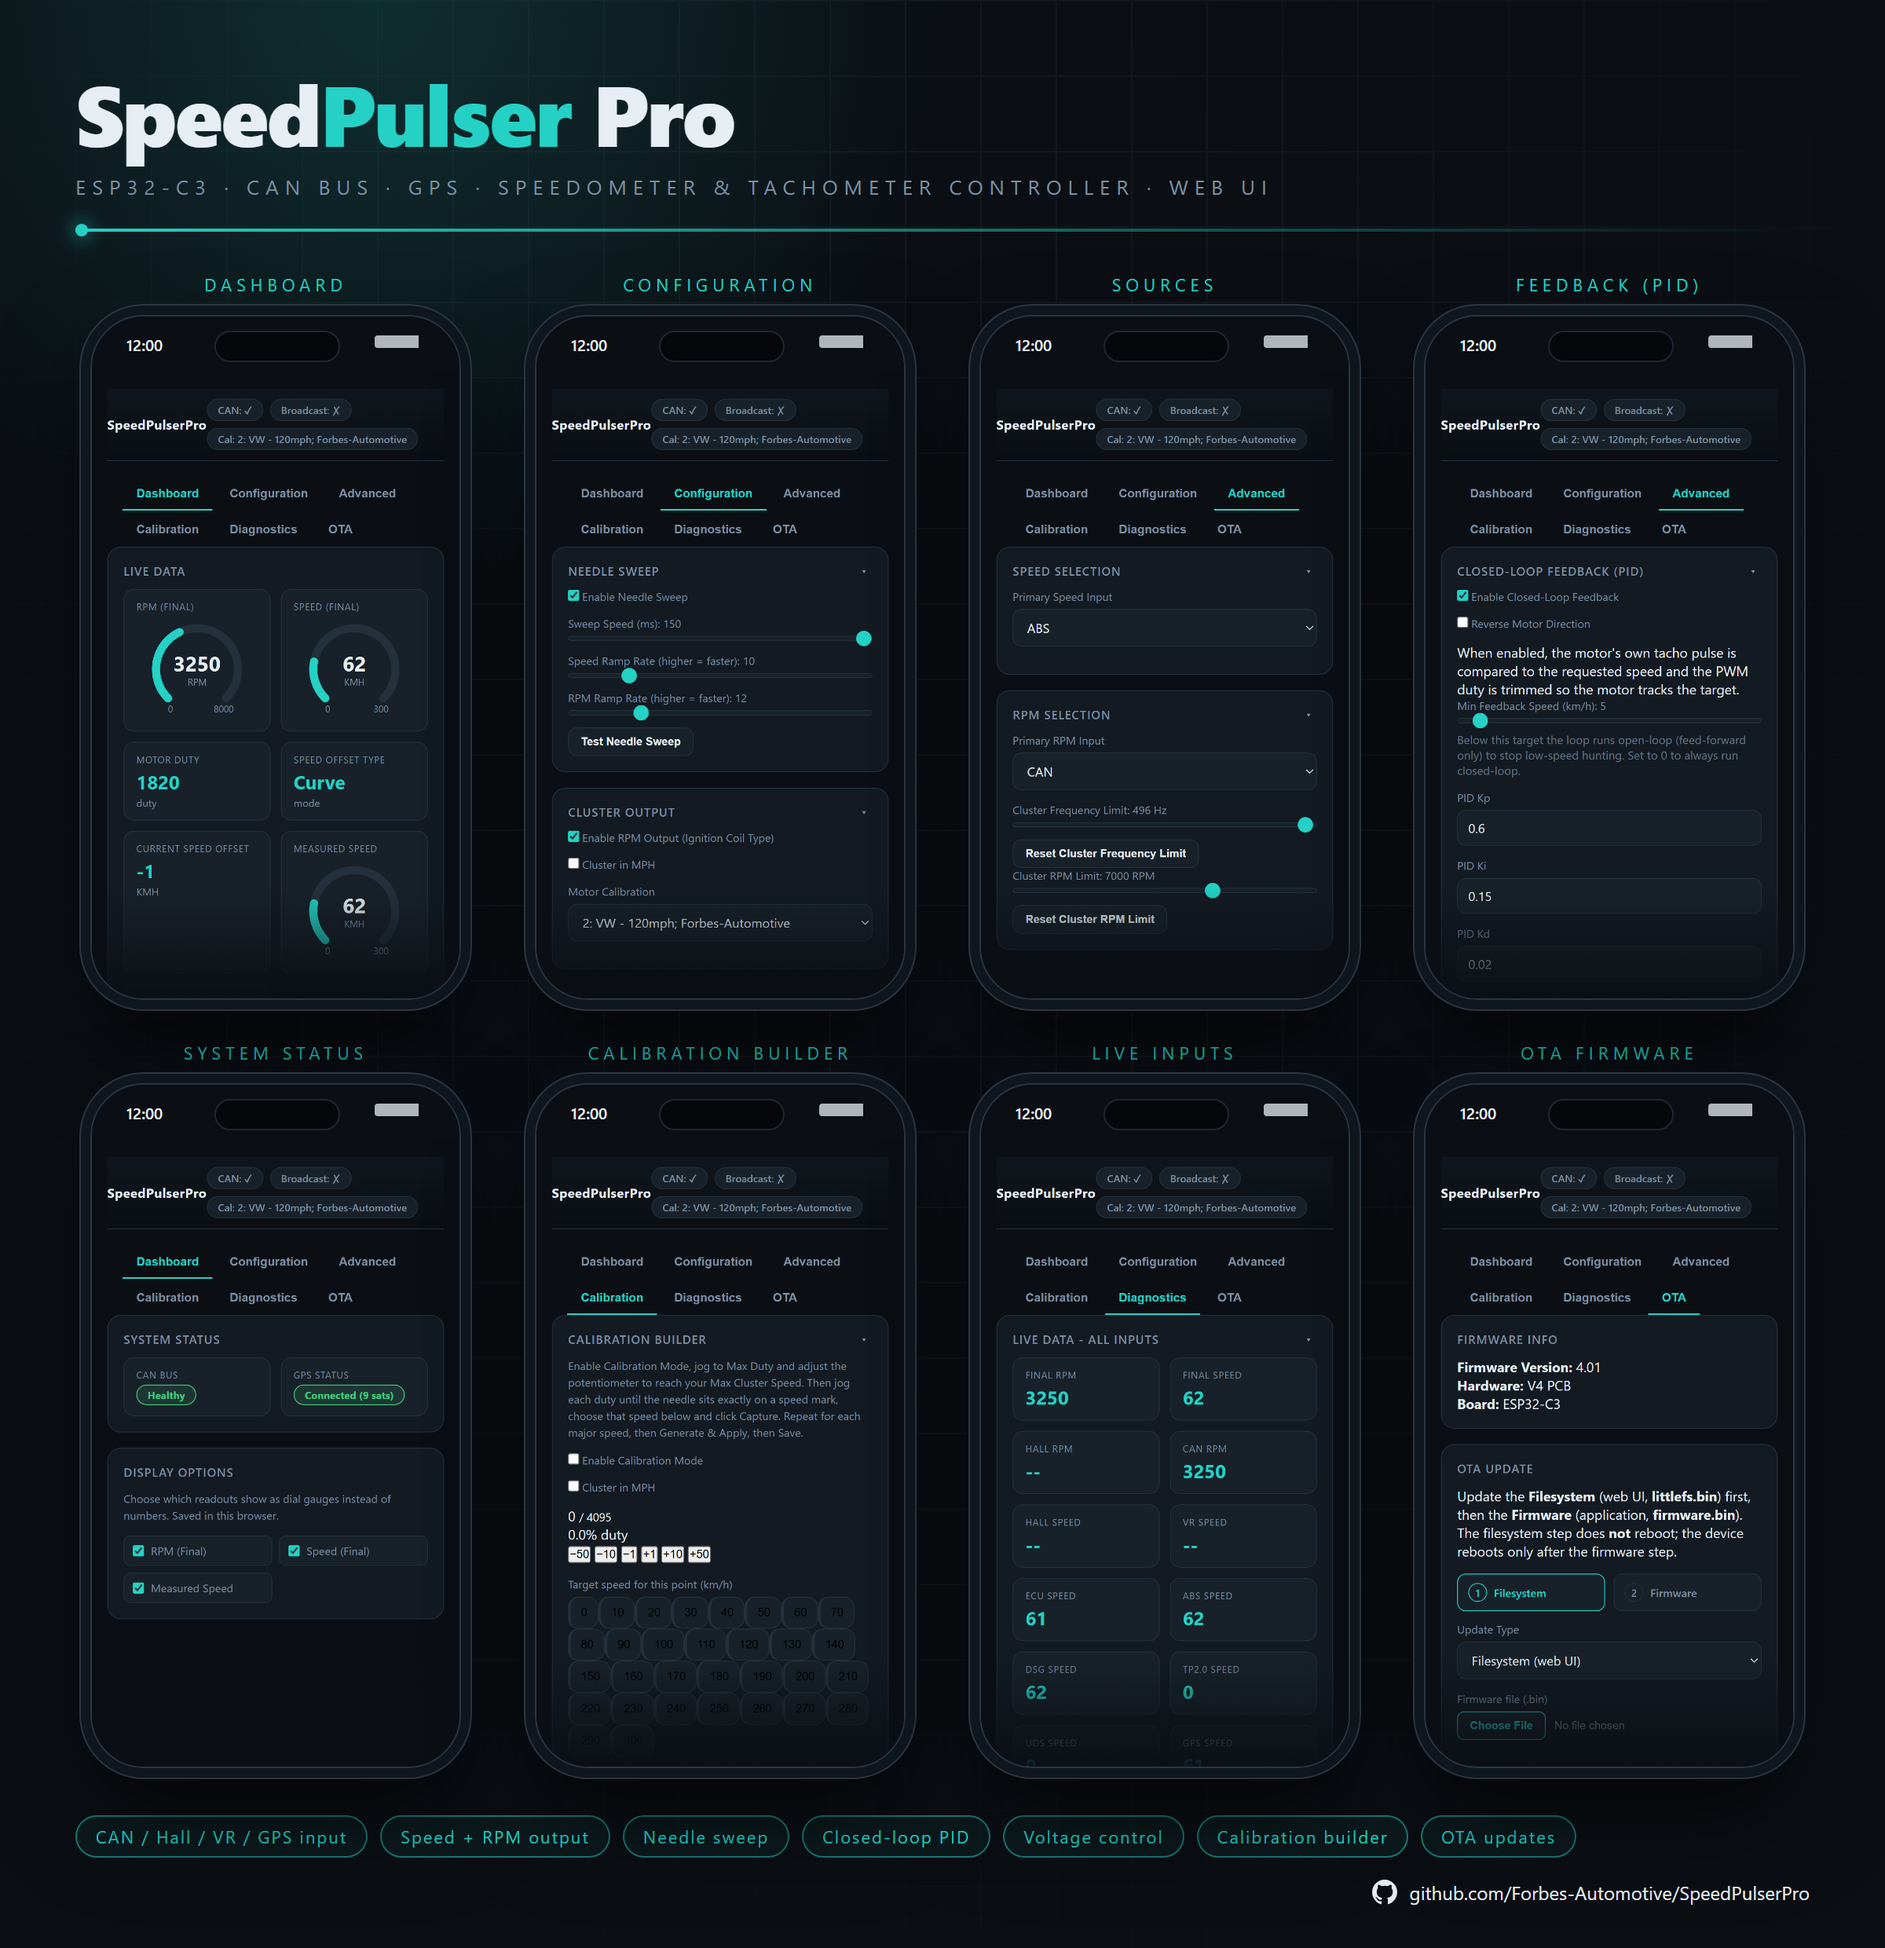
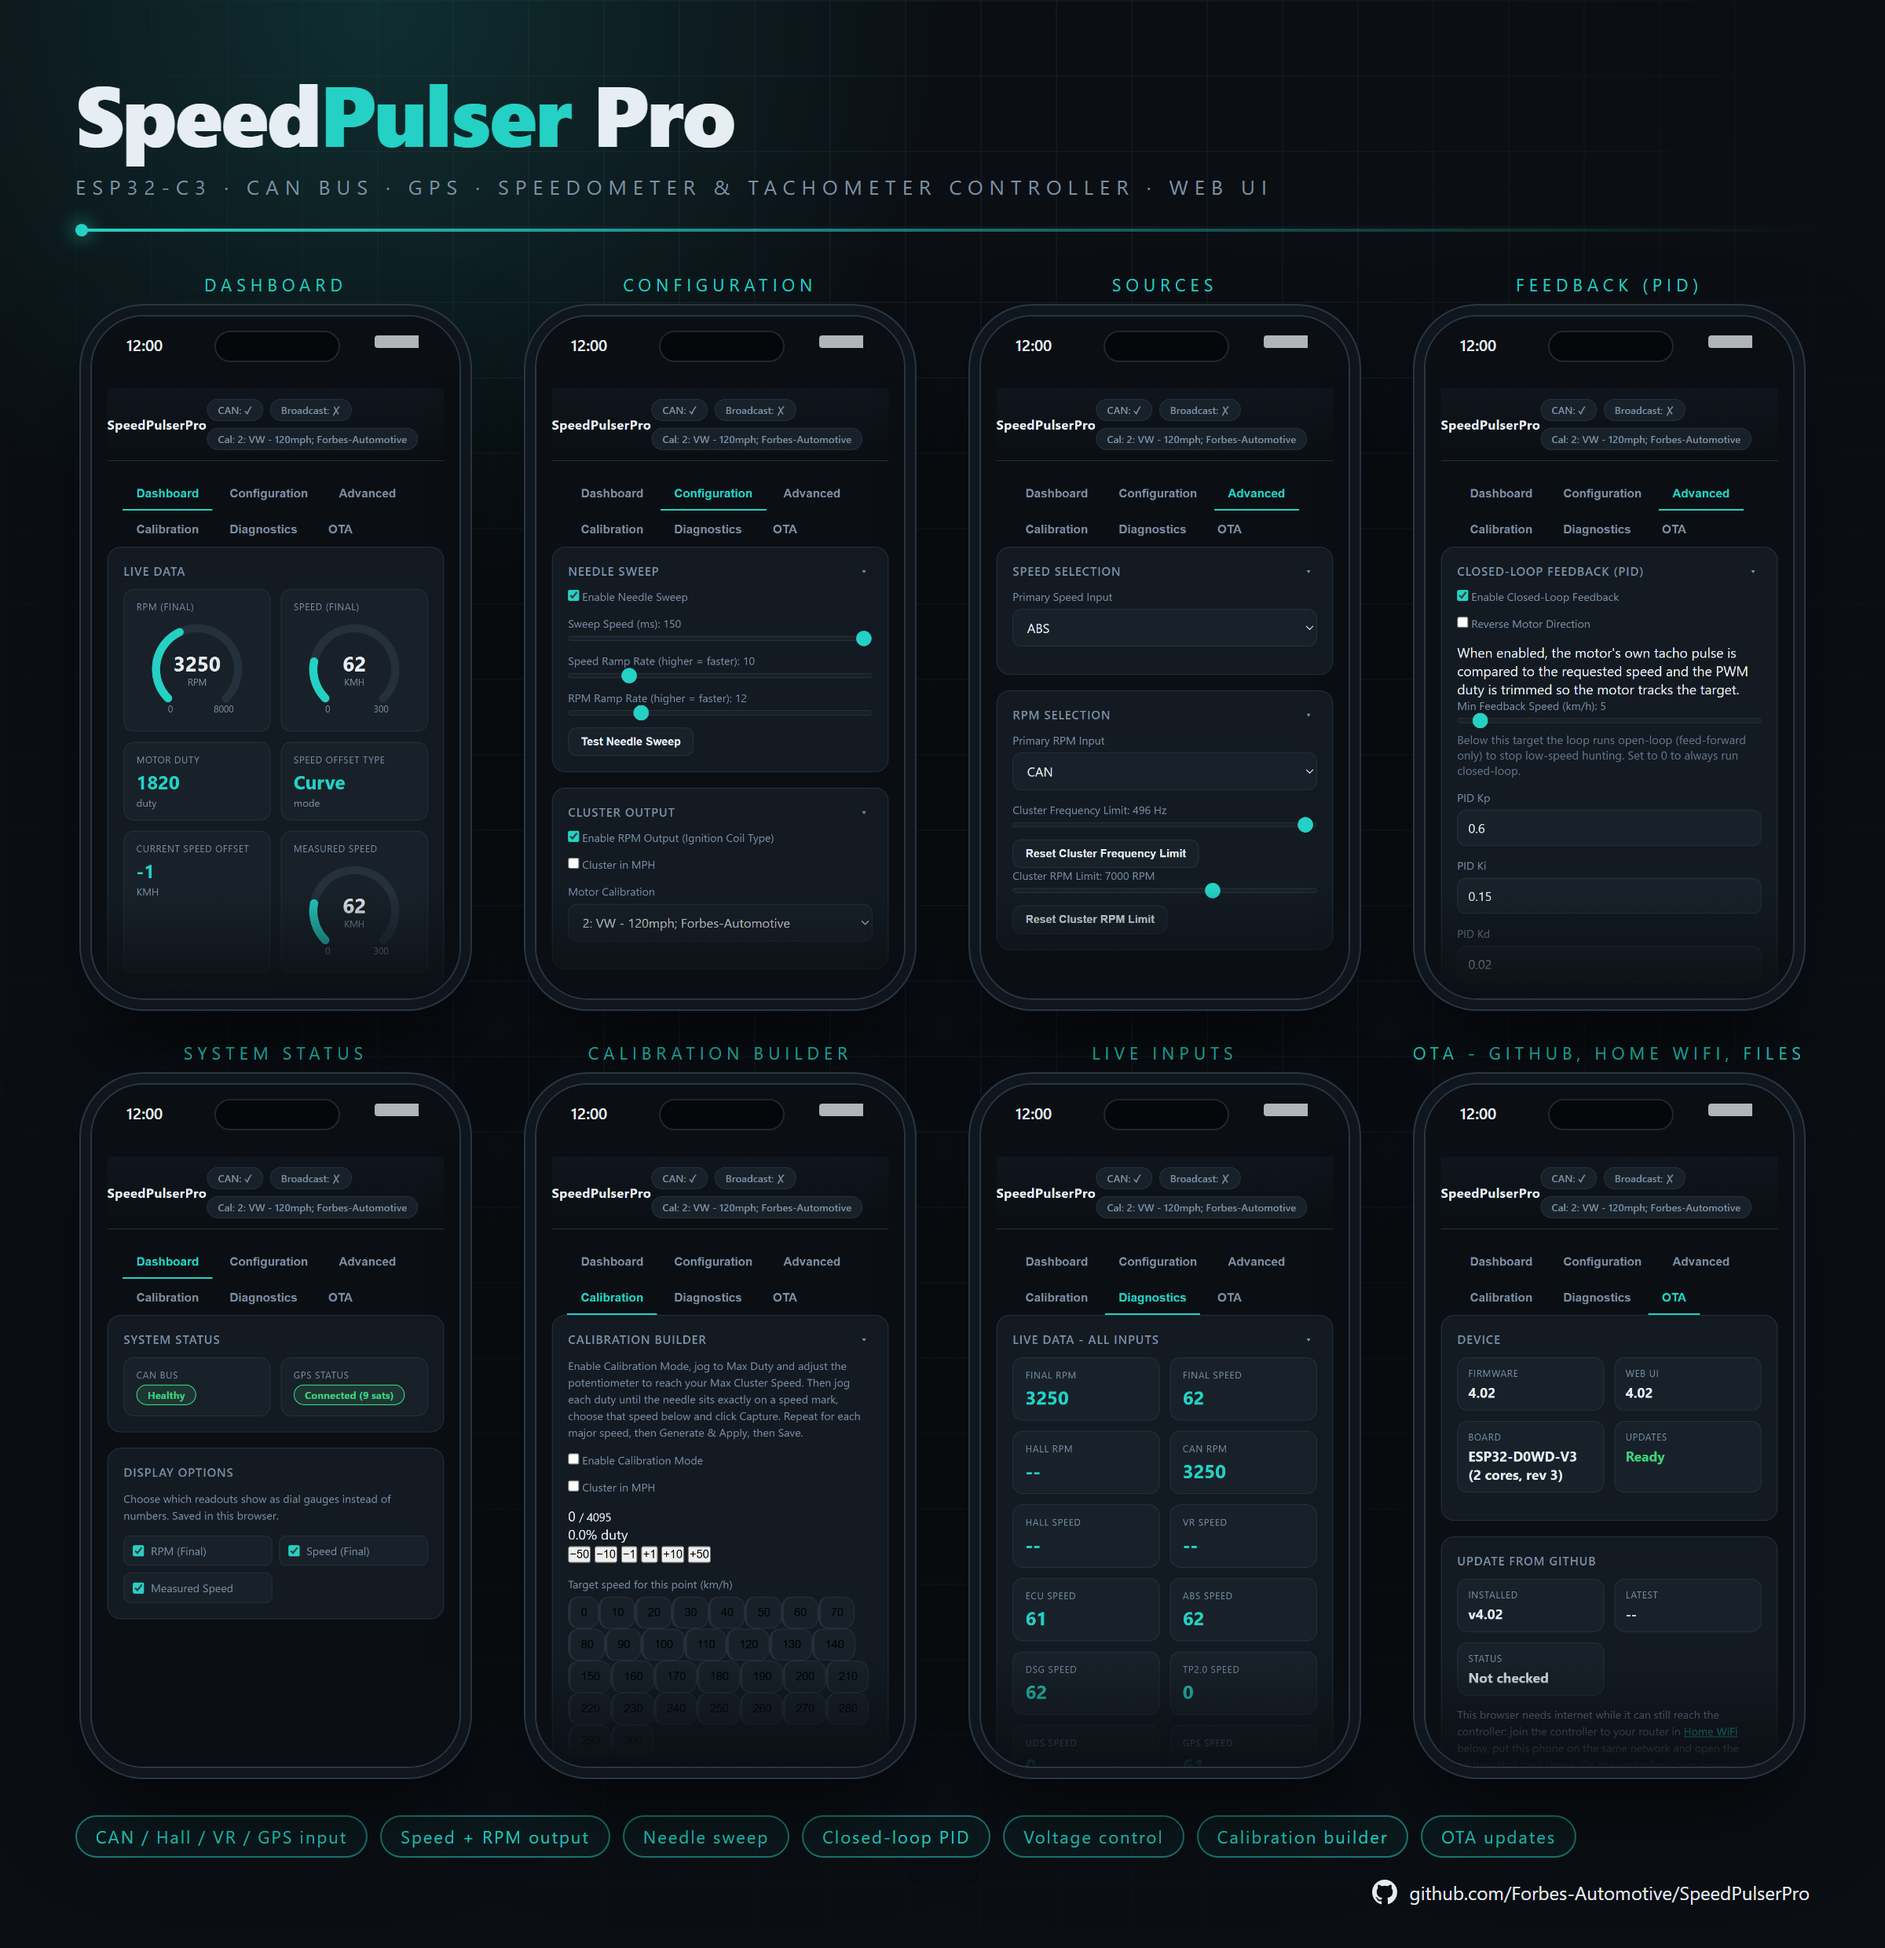
Add files via upload

Changed region(s): [[0.7812, 0.6831, 0.9375, 0.9004], [0.8438, 0.5278, 0.875, 0.5589]]

diff --git a/README.md b/README.md
@@ -27,7 +27,7 @@ It is based on an **ESP32 DevKit V1 (WROOM-32)** and uses a **TY3816B** BLDC mot
 | WiFi UI | Web app type interface |
 | Needle sweep | Full-scale exercise of both needles on power-up (speed + RPM), live-adjustable sweep speed |
 | Speed offset | Global fixed offset **or** 5-point speed-dependent curve |
-| OTA updates | Firmware **and** filesystem upload from the browser |
+| OTA updates | Update from GitHub or by file upload on the OTA tab; Home Wi‑Fi bridge mode; recovery page if the web UI is ever lost |
 | CAN analyzer | Forward live frames to SavvyCAN via WiFi (GVRET) or Serial |
 | Power management | Auto WiFi-off + CPU scaling after 1 min idle |
 | Remembers settings | All settings stored to ESP32 Preferences (EEPROM) |
@@ -183,7 +183,7 @@ Take time here — good fitment minimises noise and extends coupler life.
 
 Connect to the **`SpeedPulserPro`** WiFi access point (open network) and navigate to **`192.168.1.1`** or **`speedpulserpro.local`** in a browser.
 
-The interface is a single-page app served from the ESP32's LittleFS flash partition, built on Forbes Automotive's shared dark theme (the same look and status-colour conventions used across OpenHaldex, Can2Cluster, SpeedPulser, can2rpm, the MQB Steering Wheel Controller and AirLift Controller). Settings are applied in real time and saved to EEPROM automatically every 5 seconds. Current firmware version: **4.01.0**.
+The interface is a single-page app served from the ESP32's LittleFS flash partition, built on Forbes Automotive's shared dark theme (the same look and status-colour conventions used across OpenHaldex, Can2Cluster, SpeedPulser, can2rpm, the MQB Steering Wheel Controller and AirLift Controller). Settings are applied in real time and saved to EEPROM automatically every 5 seconds. Current firmware version: **5.03**.
 
 **Status colours**, used throughout the Dashboard and Diagnostics tabs:
 
@@ -264,7 +264,7 @@ Source selection, tuning and diagnostics:
 | GPS Update Rate | Select **1 / 5 / 10 / 16 Hz** and view the live updates-per-second figure |
 | Signal Filters | Hall speed, VR speed and RPM running-median sample counts (1–10) |
 | CAN Analyser | Forward all received CAN frames to **SavvyCAN** via WiFi (GVRET on `192.168.4.1:23`) or Serial (GVRET) |
-| Speed Selection | Primary speed source: Hall / ECU / ABS / DSG / TP2.0 / UDS / GPS / Custom CAN |
+| Speed Selection | Primary speed source: Hall / VR (S3) / ECU / ABS / DSG / TP2.0 / UDS / GPS / Custom CAN. Only one is used at a time |
 | Custom CAN Input | When *Custom CAN* is selected, define ID, byte indices, endianness, scale & offset |
 | DSG Speed Calculation | When *DSG* is selected, the gear ratios, final drives and tyre circumference used to derive speed from RPM and gear |
 | RPM Selection | Primary RPM source (Hall or CAN), cluster frequency limit and RPM ceiling |
@@ -431,7 +431,8 @@ Source (Hall / ECU / ABS / DSG / TP2.0 / UDS / GPS / Custom CAN)
     │
     ▼  ISR (windowed capture) / TWAI RX / GPS parser
     Hall / VR / RPM inputs accumulate each edge interval + count, rejecting
-    pulses < 3 ms (> 333 Hz) as electrical noise; other sources arrive in km/h
+    edges closer than half a period at that input's full scale as electrical
+    noise; other sources arrive in km/h
     │
     ▼  speedControlTask  (once per loop)
     For Hall: frequency = intervals ÷ summed interval time (true average over the
@@ -441,6 +442,10 @@ Source (Hall / ECU / ABS / DSG / TP2.0 / UDS / GPS / Custom CAN)
     ▼  RunningMedian filter  (averageFilterHall samples, default 6)
     Smoothed median speed value
     │
+    ▼  Max Speed check
+    Above Max Speed for a moment: hold the last good speed (spike);
+    above it for 0.5 s: park at Max Speed
+    │
     ▼  applyConfiguredSpeedOffset()
     Speed ± global offset  OR  speed ± curve offset for that band
     │
@@ -449,6 +454,7 @@ Source (Hall / ECU / ABS / DSG / TP2.0 / UDS / GPS / Custom CAN)
     ▼  findClosestMatch()
     Scans motorPerformance[] for the closest matching speed value
     Returns the array index = 10-bit duty cycle
+    At or below the array's lowest speed the motor stays off
     │
     ▼  setMotorDuty()  — native LEDC IDF driver, 10 kHz
     Motor PWM output on GPIO 21
@@ -456,7 +462,10 @@ Source (Hall / ECU / ABS / DSG / TP2.0 / UDS / GPS / Custom CAN)
 
 > **Default hall-sensor scaling:** 1 Hz = 1 km/h. This matches 02J / 02M gearbox sensors used in most VW/Audi applications. Adjust `maxFreqHall` and `maxSpeed` together if your sensor has a different ratio (e.g. set both to 160 for a sensor that outputs 160 Hz at 160 km/h).
 
-> **Windowed frequency capture:** The hall, VR and RPM inputs no longer derive their reading from a single edge-to-edge period — which could turn tone-wheel / tooth-spacing jitter straight into a jumpy needle. Instead each ISR accumulates the edge intervals and the task averages them once per window, and pulses closer than ~3 ms (> 333 Hz) are rejected so ignition-coil EMI can't be mistaken for a valid signal.
+> **Windowed frequency capture:** The hall, VR and RPM inputs no longer derive their reading from a single edge-to-edge period — which could turn tone-wheel / tooth-spacing jitter straight into a jumpy needle. Instead each ISR accumulates the edge intervals and the task averages them once per window, and edges closer than half a period at that input's full scale (Max Hall Frequency / Max VR Frequency / Cluster Frequency Limit, never above 1 kHz) are rejected so ignition-coil EMI can't be mistaken for a valid signal.
+
+> [!NOTE]
+> **Lowest speed shown:** each legacy calibration array has a lowest speed the motor can hold (the default array starts at 24 km/h). At or below it the motor is switched off and the needle rests on zero, so low test speeds on the bench may not move the needle. On the S3 board, Voltage Control with a drive calibration that includes a low mark reaches much slower speeds.
 
 ### Reading a Legacy Calibration Array
 
@@ -525,17 +534,17 @@ The two modes are mutually exclusive and can be toggled from the CAN Analyzer ca
 
 ---
 
-### OTA Tab
+### Over-the-Air Updates
 
-<p align="center"><img src="Images/ui-ota.png" alt="OTA tab — firmware info and two-step update" width="300"></p>
+Everything happens on the **OTA** tab; USB is only needed for the very first install, or if the web interface is ever lost.
 
-Powered by the shared `ota_manager` module. Firmware and the web UI live on separate flash partitions, so an update is a **two-step process**:
+- **Update from GitHub** — press **Check for updates**. The page reads the release list from [`adamforbes92/speedPulserPro`](https://github.com/adamforbes92/speedPulserPro) (`Releases/releases.json` plus the `V…` folders), shows *Installed* vs. *Latest* (older and beta releases sit behind a tick-box, for rolling back), then installs the selected version in six tracked steps: download and flash the web UI, verify it, download and flash the firmware, reboot. The browser needs internet *while it can still reach the controller* — join the controller to your router in the **Home WiFi (Bridge Mode)** card, put the phone on the same network and open the address the card shows (`http://speedpulserpro.local/` works there too). On the controller's own access point alone most phones drop mobile data.
+- **Home WiFi (Bridge Mode)** — the controller joins a home or garage network as a station alongside its own access point. Scan or type the network name, save, and once it shows *Connected* the controller is reachable from that network as well. It tries hard for 20 s after boot, then once every 5 minutes, so a saved network can't disturb the access point when the car is parked away from home.
+- **Update from Files** — no internet needed: download `littlefs.bin` and `firmware.bin` from the newest `Releases/V…/` folder and upload them here, **Filesystem** (web UI) first, then **Firmware**. The device reboots after the firmware.
 
-1. **Filesystem** — pick **Filesystem (web UI)** from the dropdown and upload `littlefs.bin` (`POST /api/ota/fs`, written to the SPIFFS partition). This updates `index.html` / `app.js` / `style.css`; the device does **not** reboot, so you can go straight on to step 2.
-2. **Firmware** — pick **Firmware (application)** and upload `firmware.bin` (`POST /api/ota`, written to the OTA app partition). The device reboots automatically once this completes.
+Every upload is size-checked, and a filesystem image is verified by mounting it before the device reports success — a failed filesystem upload is wiped rather than left half-written. If the web interface is ever missing (a filesystem update that stopped part-way), the controller serves a **recovery page** at its address with the same two uploads and partition diagnostics, so it is never a USB job. Web assets are served `no-cache`, so a new UI is never hidden behind a stale copy in the phone's browser. `GET /api/ota/info` reports the firmware and web UI versions shown at the top of the tab; `GET /api/ota/check` gates updates on the device being in a safe state.
 
-- **Firmware Info** — reports the running firmware version, hardware family and board name (`GET /api/ota/info`).
-- **OTA Update** — pick **Firmware** or **Filesystem** from the dropdown, then drag-and-drop or choose the matching `.bin`. A progress bar tracks each upload.
+<p align="center"><img src="Images/ui-ota.png" alt="OTA tab — Update from GitHub, Home WiFi bridge mode and Update from Files" width="300"></p>
 
 ---
 
@@ -635,4 +644,9 @@ The SpeedPulser Pro drives an analog speedometer for display purposes. It should
 | V3.04 | Closed-loop feedback is sense-check for legacy PCBs without the motor-feedback circuit |
 | V4.00.0 | Voltage-control hardware support (VR input) |
 | V4.01.0 | Adopted Forbes Automotive's shared Ignitron dark theme, Wi‑Fi AP/mDNS manager (`speedpulserpro.local`) and the two-step `ota_manager` firmware/filesystem OTA module, common across the ESP32 product line |
+| V4.02 | OTA overhaul: uploads that complete, verified filesystem updates with a recovery page, "Update from GitHub" and a Home WiFi (bridge mode) card |
+| V5.00 | ESP32-S3 board (rev6): one codebase for DevKit and S3, buck voltage control with Test Board, VR speed input, switchable speed-input bias |
+| V5.01 | S3 drive calibration: up to 10 captured marks set the motor drive (rail x PWM), with an optional gentle feedback trim; voltage calibration export / import |
+| V5.02 | RPM input passes through to the tach 1:1 (was ~30 RPM low); fractional-Hz RPM output; glitch filter scaled per input, so 6/8-cyl RPM above 333 Hz no longer reads half; RPM Filter Samples = 1 no longer outputs 0 RPM |
+| V5.03 | Picking a speed source switches the others off (Custom CAN left TP2.0 on), and the page always shows the source really in use; a speed above Max Speed for 0.5 s parks the needle at Max Speed instead of 0; the Positive Offset tick now saves across restarts |
 
